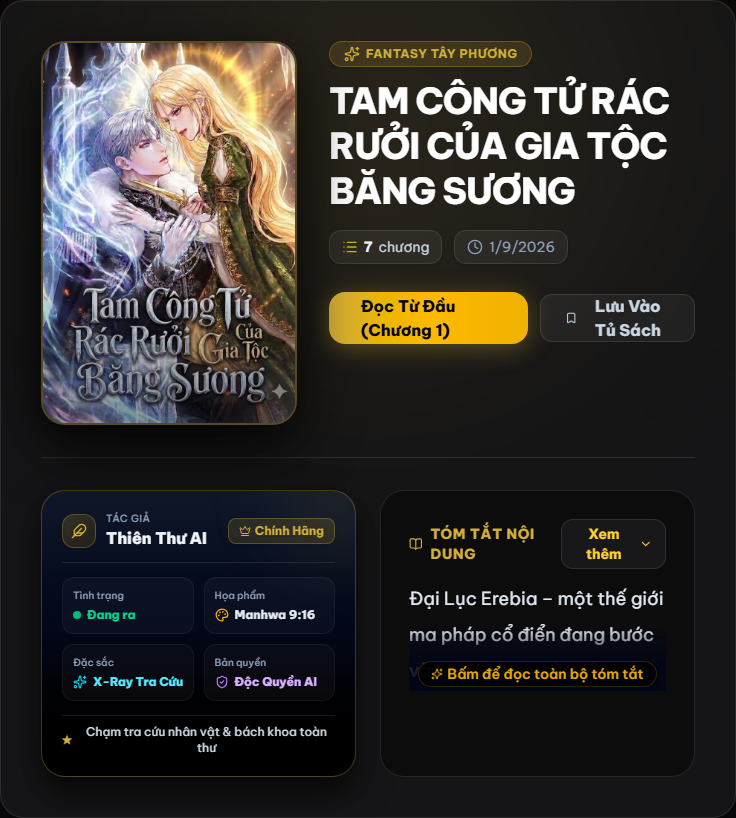
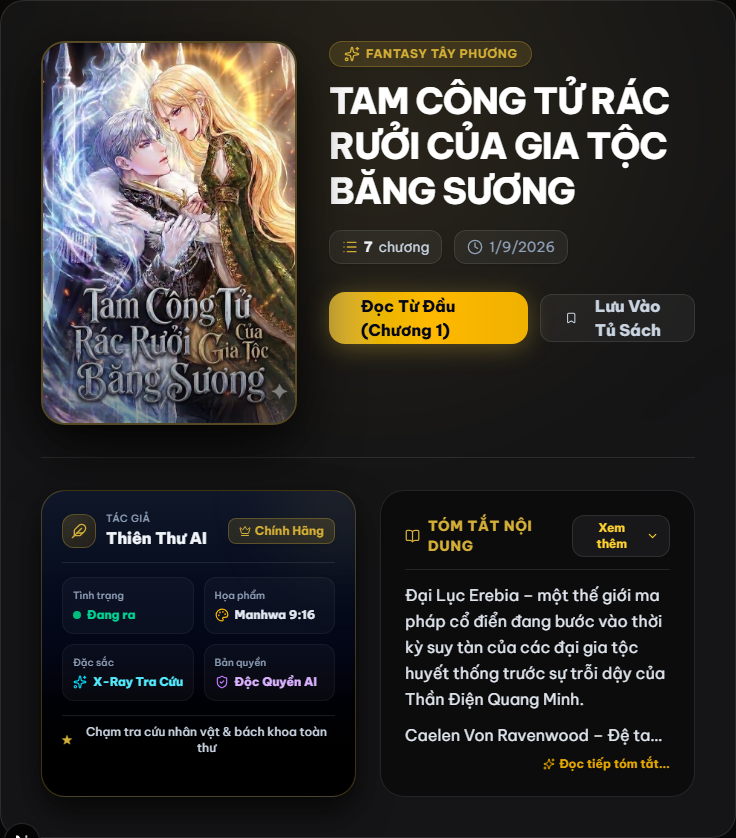
feat(ui): optimize story summary typography to seamlessly fill container down to the bottom

diff --git a/src/components/StorySummary.tsx b/src/components/StorySummary.tsx
@@ -13,33 +13,42 @@ export function StorySummary({ summary, className = "" }: StorySummaryProps) {
 
   // Split paragraphs
   const paragraphs = summary.split(/\n\s*\n/).filter(Boolean);
+  const isLong = summary.length > 280;
 
   return (
-    <div className={`relative bg-black/40 border border-white/10 rounded-2xl sm:rounded-3xl p-4 sm:p-6 md:p-7 text-left space-y-3 shadow-inner transition-all duration-300 ${className}`}>
-      <div className="flex items-center justify-between">
+    <div className={`relative flex flex-col justify-between bg-black/40 border border-white/10 rounded-2xl sm:rounded-3xl p-4 sm:p-6 md:p-6 text-left shadow-inner transition-all duration-300 ${className}`}>
+      {/* Header */}
+      <div className="flex items-center justify-between pb-3 border-b border-white/10 shrink-0">
         <h3 className="text-xs sm:text-sm font-extrabold uppercase tracking-wider text-[#d4af37] flex items-center gap-2">
           <BookOpen className="w-4 h-4 text-[#d4af37]" />
           <span>Tóm Tắt Nội Dung</span>
         </h3>
 
-        <button
-          type="button"
-          onClick={() => setIsExpanded(!isExpanded)}
-          className="inline-flex items-center gap-1.5 text-xs sm:text-sm font-bold text-amber-300 hover:text-amber-200 transition-colors cursor-pointer bg-white/5 hover:bg-white/10 px-3 py-1 rounded-xl border border-white/10"
-        >
-          <span>{isExpanded ? "Thu gọn" : "Xem thêm"}</span>
-          {isExpanded ? (
-            <ChevronUp className="w-4 h-4" />
-          ) : (
-            <ChevronDown className="w-4 h-4" />
-          )}
-        </button>
+        {isLong && (
+          <button
+            type="button"
+            onClick={() => setIsExpanded(!isExpanded)}
+            className="inline-flex items-center gap-1.5 text-xs font-bold text-amber-300 hover:text-amber-200 transition-colors cursor-pointer bg-white/5 hover:bg-white/10 px-2.5 py-1 rounded-xl border border-white/10"
+          >
+            <span>{isExpanded ? "Thu gọn" : "Xem thêm"}</span>
+            {isExpanded ? (
+              <ChevronUp className="w-3.5 h-3.5" />
+            ) : (
+              <ChevronDown className="w-3.5 h-3.5" />
+            )}
+          </button>
+        )}
       </div>
 
-      <div className="relative">
+      {/* Body Text filling down to the bottom */}
+      <div className="relative flex-1 pt-3">
         <div
-          className={`space-y-3 text-slate-200 text-sm sm:text-base md:text-lg leading-relaxed sm:leading-loose font-normal transition-all duration-500 overflow-hidden ${
-            isExpanded ? "max-h-[1200px]" : "max-h-[110px]"
+          className={`space-y-2.5 text-slate-200 text-sm sm:text-base leading-relaxed sm:leading-relaxed font-normal transition-all duration-300 ${
+            isExpanded 
+              ? "max-h-none" 
+              : isLong 
+                ? "line-clamp-5 sm:line-clamp-6" 
+                : ""
           }`}
         >
           {paragraphs.map((p, idx) => (
@@ -47,14 +56,14 @@ export function StorySummary({ summary, className = "" }: StorySummaryProps) {
           ))}
         </div>
 
-        {/* Gradient Fade Overlay when collapsed */}
-        {!isExpanded && (
+        {/* Subtle click to expand indicator if long and not expanded */}
+        {isLong && !isExpanded && (
           <div 
             onClick={() => setIsExpanded(true)}
-            className="absolute bottom-0 left-0 right-0 h-16 bg-gradient-to-t from-slate-950 via-slate-950/80 to-transparent cursor-pointer flex items-end justify-center pb-1"
+            className="pt-2 cursor-pointer flex items-center justify-end"
           >
-            <span className="text-xs sm:text-sm font-semibold text-amber-400/90 flex items-center gap-1 bg-black/80 px-3 py-0.5 rounded-full border border-amber-500/20 shadow-md">
-              <Sparkles className="w-3 h-3" /> Bấm để đọc toàn bộ tóm tắt
+            <span className="text-[11px] sm:text-xs font-bold text-amber-400/90 hover:text-amber-300 flex items-center gap-1">
+              <Sparkles className="w-3 h-3" /> Đọc tiếp tóm tắt...
             </span>
           </div>
         )}
